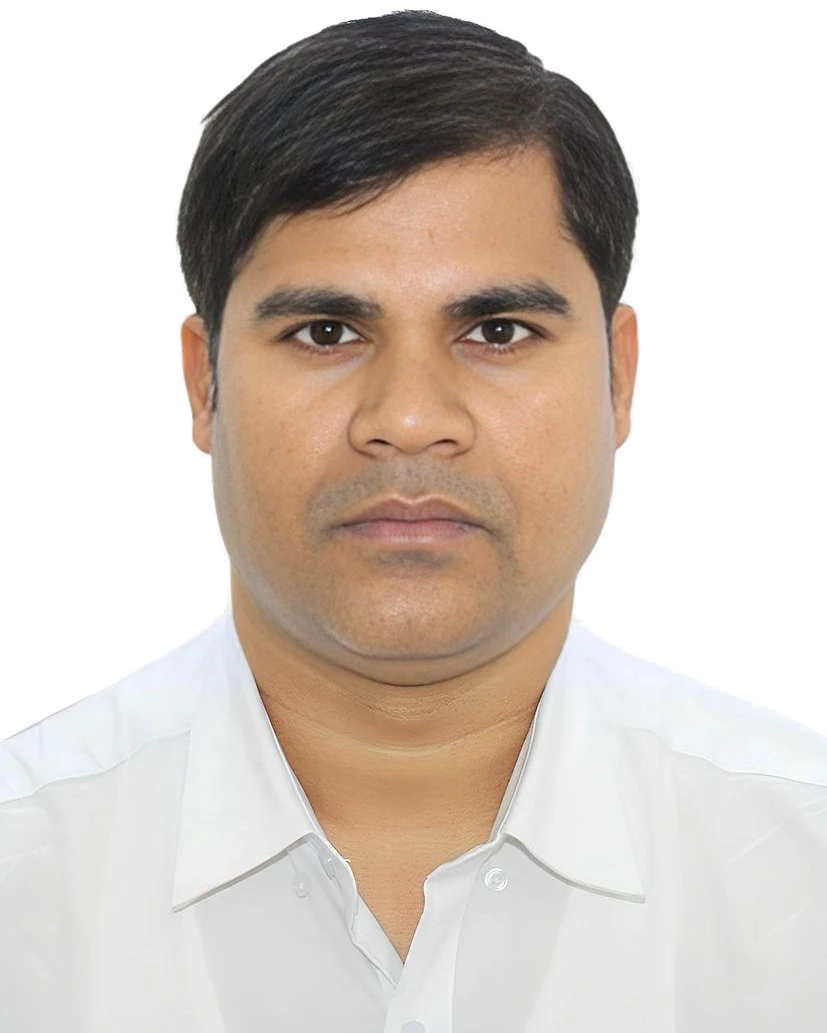
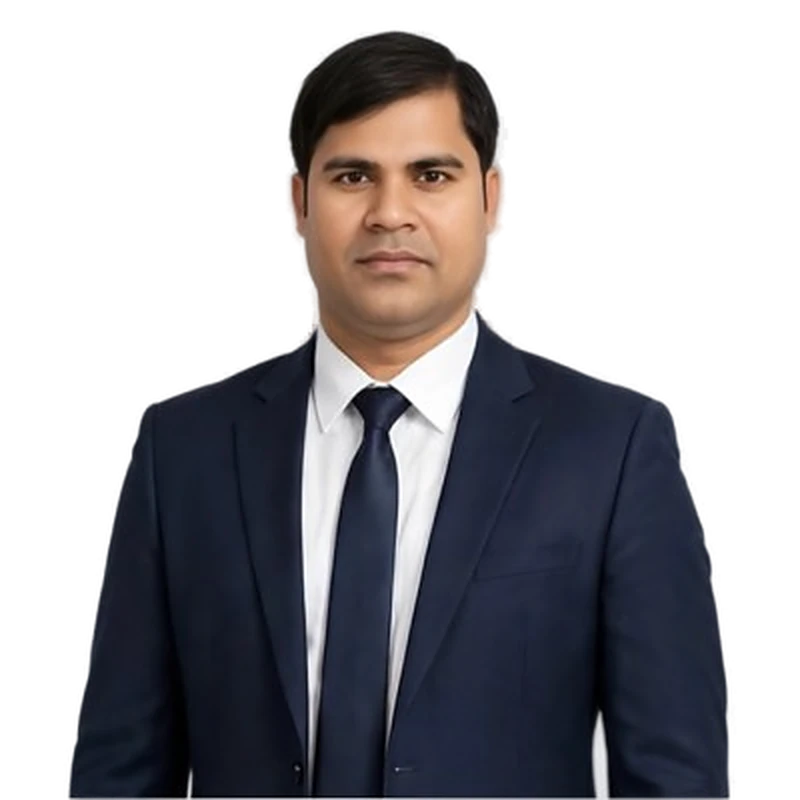
Use new suit headshot on a light arch
Claude-Session: https://claude.ai/code/session_01A5tZXEiASWGF96QGBhmFGK

diff --git a/index.html b/index.html
@@ -65,9 +65,9 @@ p{margin:0}
 
 .arch{position:relative; justify-self:center; width:100%; max-width:400px; isolation:isolate}
 .arch-frame{position:relative; aspect-ratio:4/5; max-width:100%; border-radius:200px 200px 18px 18px; overflow:hidden;
-  background:radial-gradient(circle at 50% 30%, var(--navy-2), var(--navy) 70%)}
-.arch-frame::before{content:""; position:absolute; inset:18px; border-radius:inherit; border:1px solid rgba(255,255,255,.14)}
-.arch-frame img{position:absolute; left:50%; bottom:0; transform:translateX(-50%); width:103%; max-width:none; height:auto}
+  background:radial-gradient(circle at 50% 32%, #F6F8FB, #DCE3EC 72%); border:1px solid var(--line)}
+.arch-frame::before{content:""; position:absolute; inset:18px; border-radius:inherit; border:1px solid rgba(176,132,51,.35)}
+.arch-frame img{position:absolute; left:50%; bottom:0; transform:translateX(-50%); width:112%; max-width:none; height:auto}
 .tag-card{position:absolute; left:-26px; bottom:34px; background:#fff; border-radius:12px; padding:14px 18px; box-shadow:var(--shadow); display:flex; align-items:center; gap:12px}
 .tag-card b{font-size:1.75rem; font-weight:800; color:var(--navy); line-height:1}
 .tag-card span{font-size:.8125rem; color:var(--muted); line-height:1.35; font-weight:500}
@@ -288,7 +288,7 @@ footer .wrap{padding-block:22px; display:flex; justify-content:space-between; ga
       </div>
       <div class="arch">
         <div class="dots" aria-hidden="true"></div>
-        <div class="arch-frame"><img src="images/navin-portrait.webp" alt="Navin Kumar Tiwary" width="827" height="1033"></div>
+        <div class="arch-frame"><img src="images/navin-portrait.webp" alt="Navin Kumar Tiwary" width="800" height="800"></div>
         <div class="tag-card"><b data-exp="plus">14+</b><span>Years in UAE</span></div>
       </div>
     </div>
